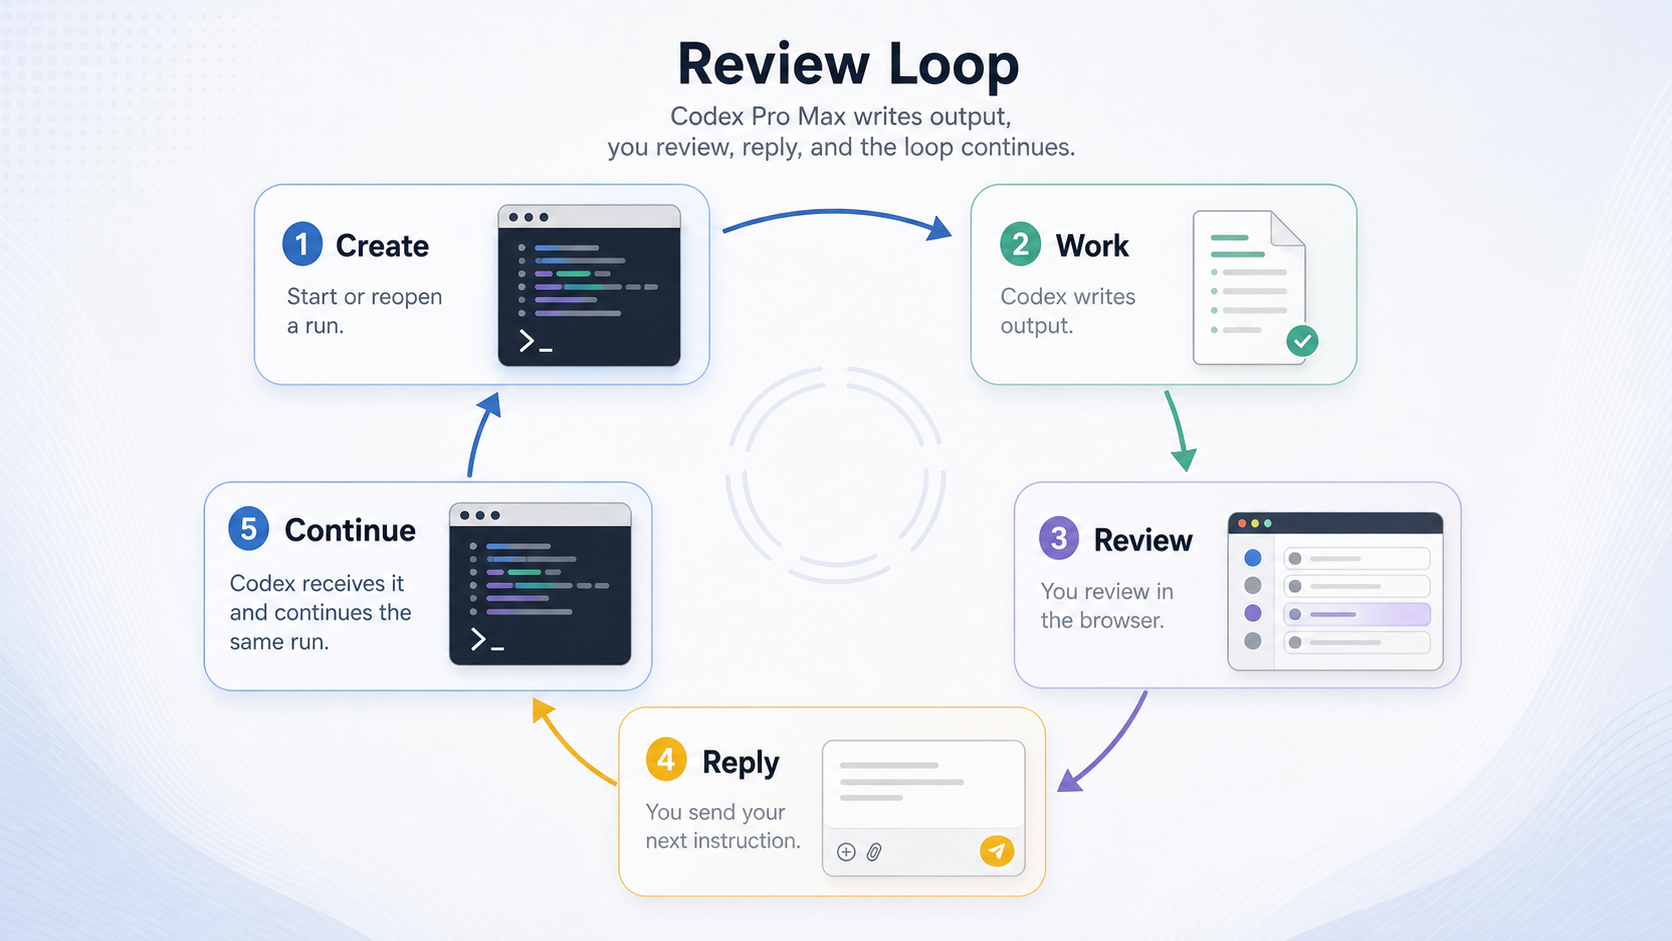
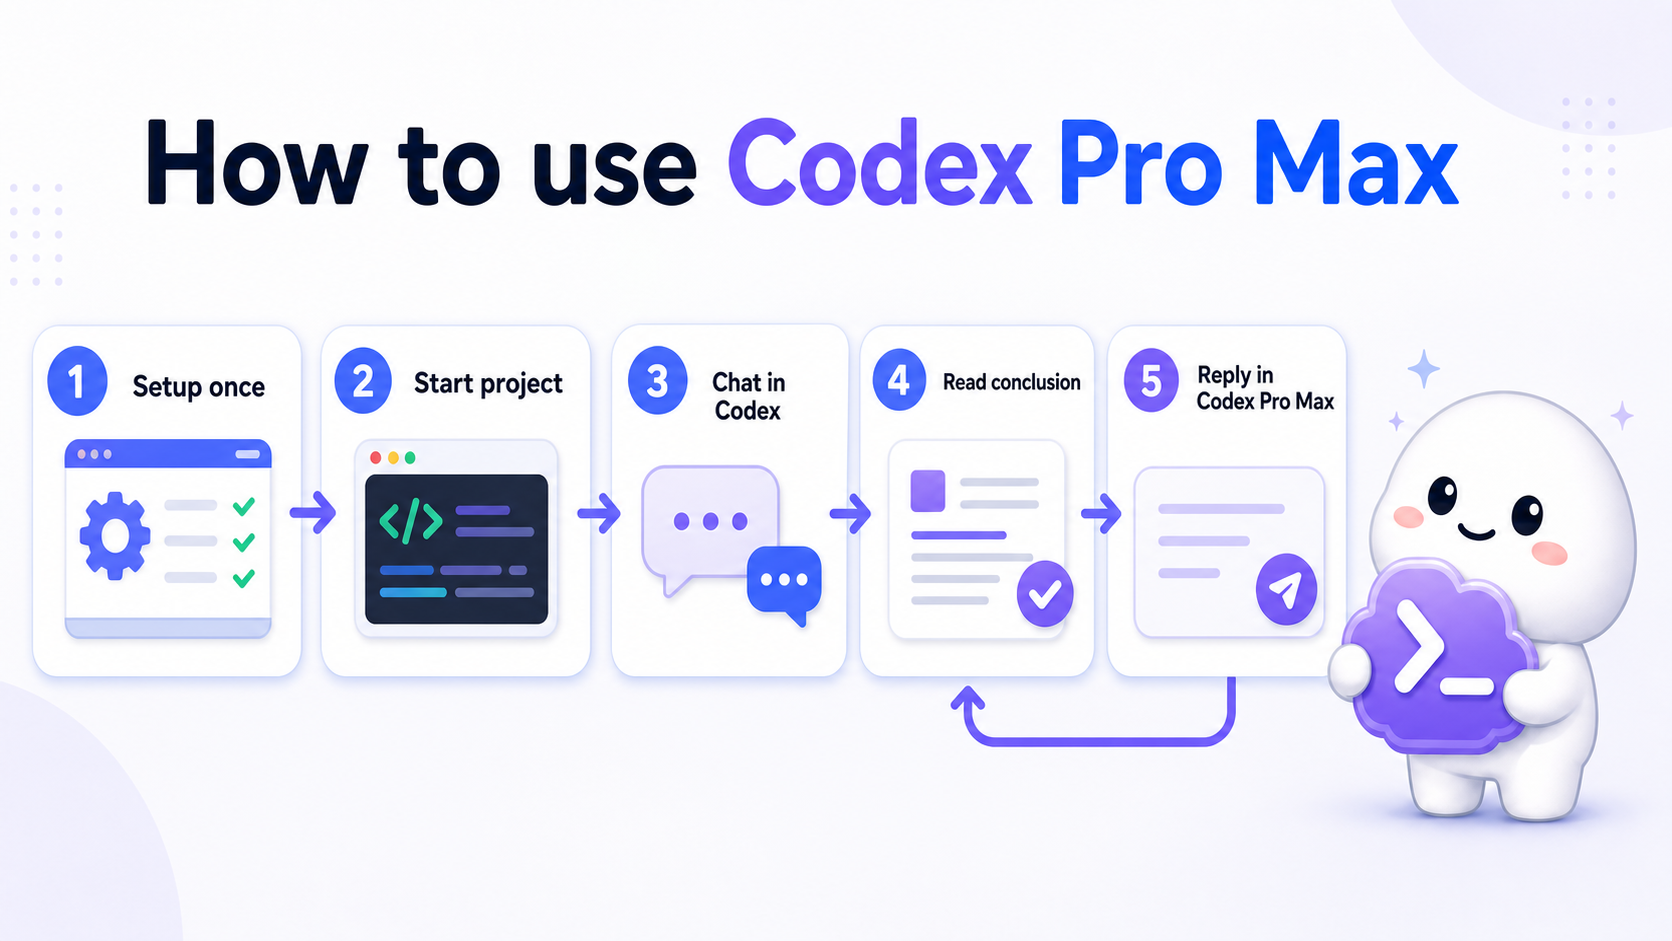
Clarify README setup workflow

diff --git a/README.md b/README.md
@@ -4,72 +4,63 @@
   <img src="./assets/readme/banner.png" alt="Codex Pro Max banner" width="980" />
 </p>
 
-<p align="center">
-  <img src="https://img.shields.io/badge/license-MIT-green" alt="MIT license" />
-  <img src="https://img.shields.io/badge/React-19-61dafb" alt="React 19" />
-  <img src="https://img.shields.io/badge/TypeScript-5.9-3178c6" alt="TypeScript 5.9" />
-  <img src="https://img.shields.io/badge/Vite-7.3-646cff" alt="Vite 7.3" />
-  <img src="https://img.shields.io/badge/local--first-file%20protocol-0f766e" alt="Local first file protocol" />
-  <img src="https://img.shields.io/badge/platform-Windows-0078d4" alt="Windows" />
-</p>
+Codex Pro Max helps you keep working with Codex without interrupting the same conversation.
 
-Codex Pro Max is a local browser inbox for Codex runs.
+I built this so Codex can do the work, send its conclusion to Codex Pro Max, wait there for your next prompt, and then continue from the same Codex chat. You do not need to steer the original Codex thread with another message just to keep it moving, and you do not need to start a new conversation.
 
-I built this so I can chat with Codex directly from Codex Pro Max without interrupting the same conversation. Codex can do the work, send the answer to the browser, wait there for my next instruction, and then continue the same run again.
-
-That makes the workflow simple: review the answer, type the next instruction, and keep going. Have fun.
+The workflow is simple: ask Codex to work, review the conclusion in Codex Pro Max, reply there, and let Codex continue from where it stopped.
 
 <p align="center">
-  <img src="https://media.tenor.com/l6oja987EwIAAAAi/tkthao219-quby.gif" alt="Have fun sticker" width="120" />
+  <img src="./public/codex-stopped.webp" alt="Codex waiting for the next instruction" width="320" />
 </p>
 
-## What It Does
+## What It Helps With
+
+Codex Pro Max helps when you want Codex to keep working step by step without losing the same conversation.
+
+- Read Codex's latest conclusion in a browser.
+- Send the next prompt from Codex Pro Max.
+- Keep the same Codex session going after every reply.
+- Type ahead while Codex is busy.
+- Keep run files locally in the `runs/` folder.
 
 <p align="center">
   <img src="./assets/readme/why-it-exists.png" alt="Why Codex Pro Max exists" width="900" />
 </p>
 
-Codex Pro Max gives you:
-
-- A browser inbox for Codex runs.
-- One selected run view with the latest answer.
-- A composer for sending the next instruction.
-- A queue so you can keep writing while Codex is busy.
-- Attachments and previews for run context.
-- Protocol file previews for debugging.
-- Live local updates through Server-Sent Events.
-- A file-backed protocol, so there is no database to set up.
-
-Use it when you want Codex to pause after a task, show you the result in a separate UI, and then resume the same conversation after you reply.
-
-## Tags
-
-`codex` `human-in-the-loop` `review-inbox` `local-first` `file-protocol` `server-sent-events` `react` `vite` `typescript` `express` `windows` `automation`
-
-## Quick Start
-
-<p align="center">
-  <img src="./assets/readme/quick-start.png" alt="Codex Pro Max quick start" width="900" />
-</p>
-
-### Requirements
+## Requirements
 
 - Windows.
+- Codex installed.
 - Node.js 20 or newer. Node.js 24 is recommended.
 - npm.
 - PowerShell.
 
-### Install The Codex Skill
+## How To Install
 
-From the project folder, run:
+### 1. Run Setup
+
+From the project folder, double-click `setup.cmd` or run:
 
 ```bat
 .\setup.cmd
 ```
 
-The setup script copies the Codex Pro Max skill into your Codex home folder and updates Codex configuration so Codex can use the review scripts.
+`setup.cmd` installs three things for Codex:
 
-### Start The App
+| Installed item | Where it goes | Why it matters |
+| --- | --- | --- |
+| Codex Pro Max skill | `%USERPROFILE%\.codex\skills\codex-pro-max` | Gives Codex the scripts it needs to create sessions, submit conclusions, and wait for your next prompt. |
+| System instruction file | `%USERPROFILE%\.codex\AGENTS.md` | Tells Codex when and how to use Codex Pro Max. |
+| Codex config entry | `%USERPROFILE%\.codex\config.toml` | Enables the installed skill for Codex. |
+
+If Codex was already open, restart it after running setup so it can load the new skill and instructions.
+
+<p align="center">
+  <img src="./assets/readme/setup-cmd-success.png" alt="setup.cmd completed successfully" width="900" />
+</p>
+
+### 2. Start Codex Pro Max
 
 Run:
 
@@ -77,47 +68,85 @@ Run:
 .\start-project.cmd
 ```
 
-Then open:
+This command checks dependencies, installs missing packages if needed, and starts the local project.
+
+When it is running, open:
 
 ```text
 http://127.0.0.1:5173
 ```
 
-The local API runs on:
+Codex Pro Max also uses this helper address in the background:
 
 ```text
 http://127.0.0.1:53127
 ```
 
-## Demo Media
+Keep the command window open while you use Codex Pro Max. Closing it stops the project.
 
-<!-- Add the project screenshot and workflow GIF here later. -->
+<p align="center">
+  <img src="./assets/readme/start-project-running.png" alt="start-project.cmd running Codex Pro Max" width="900" />
+</p>
 
-## Daily Workflow
+<p align="center">
+  <img src="./public/codex-thinking.webp" alt="Codex working on a request" width="320" />
+</p>
+
+## How To Use
+
+### 1. Open Codex And Chat
+
+Open Codex and start a normal chat.
+
+Because `setup.cmd` installed the skill, `AGENTS.md`, and Codex config, Codex knows what to do:
+
+1. Start a new Codex Pro Max session.
+2. Do your requested work.
+3. Write the conclusion into Codex Pro Max.
+4. Wait for your next prompt.
+
+You do not need to manually create a run folder or run the PowerShell scripts yourself. Codex uses the installed skill and instructions.
+
+### 2. Continue From Codex Pro Max
+
+After Codex finishes a task, Codex Pro Max shows the conclusion in the browser.
+
+Type your next prompt in Codex Pro Max. Once Codex receives it, it continues the same Codex session, works until the next conclusion, writes that conclusion back into Codex Pro Max, and waits again.
+
+That is the main loop:
+
+```text
+Codex chat -> Codex does work -> conclusion appears in Codex Pro Max
+Codex Pro Max prompt -> Codex continues -> next conclusion appears
+```
 
 <p align="center">
   <img src="./assets/readme/review-loop.png" alt="Codex Pro Max review loop" width="900" />
 </p>
 
-The normal loop is:
+## Daily Workflow
 
-1. Codex calls `create_session.ps1` to create or reopen a run.
-2. Codex does the requested work.
-3. Codex calls `request_review.ps1` with its answer.
-4. Codex Pro Max shows that answer in the browser.
-5. You send the next instruction from the UI.
-6. `wait_for_review.ps1` returns the instruction to Codex.
-7. Codex continues the same conversation.
+1. Run `start-project.cmd`.
+2. Open `http://127.0.0.1:5173`.
+3. Open Codex.
+4. Send your first prompt in Codex.
+5. Read the conclusion in Codex Pro Max.
+6. Send follow-up prompts from Codex Pro Max.
+7. Close the `start-project.cmd` window when you are done.
 
-The important rule is that Codex keeps waiting with the same `runDir` until an instruction exists.
+<p align="center"><strong>[daily-workflow.png]</strong></p>
 
-## Instruction Queue
+## What You Should See
 
-<p align="center">
-  <img src="./assets/readme/instruction-queue.png" alt="Codex Pro Max instruction queue" width="900" />
-</p>
+When everything is working:
 
-You can type ahead while Codex is busy. Queued instructions are stored in the browser by run id. When the selected run reaches `WAITING_FOR_REVIEW`, the next queued instruction can be sent without losing your draft.
+- Codex Pro Max shows a run in the left sidebar.
+- The selected run shows Codex's latest conclusion.
+- The run status changes to `WAITING_FOR_REVIEW` when Codex is waiting for you.
+- The prompt box lets you send the next instruction.
+- Codex continues after receiving that instruction.
+
+<p align="center"><strong>[waiting-for-review-screen.png]</strong></p>
 
 ## Project Layout
 
@@ -126,17 +155,20 @@ CodexProMax/
   src/                         React + Vite browser UI
   server/                      Express API and file protocol logic
   setup/skills/codex-pro-max/  Installable Codex skill
-  public/                      Static app images
-  assets/readme/               README raster figures
+  public/                      Static app files
+  assets/readme/               README images and GIFs
   runs/                        Local runtime state, ignored by git
+  AGENTS.md                    System instructions installed by setup.cmd
+  setup.cmd                    Installs the Codex skill and config
+  start-project.cmd            Starts Codex Pro Max
 ```
 
-## Scripts
+## Commands
 
 | Command | Purpose |
 | --- | --- |
-| `.\setup.cmd` | Installs the Codex Pro Max Codex skill into your Codex home folder. |
-| `.\start-project.cmd` | Installs missing dependencies if needed, then starts the dev app. |
+| `.\setup.cmd` | Installs the Codex Pro Max skill, `AGENTS.md`, and Codex config entry. |
+| `.\start-project.cmd` | Installs missing dependencies if needed, then starts the app. |
 | `npm run dev` | Starts the Express API and Vite UI together. |
 | `npm test` | Runs backend, frontend, and skill-script tests. |
 | `npm run build` | Type-checks the project and builds the production UI. |
@@ -147,7 +179,7 @@ CodexProMax/
 ### System Architecture
 
 <p align="center">
-  <img src="./assets/readme/system-paper-figure.png" alt="Codex Pro Max paper-style system architecture figure" width="980" />
+  <img src="./assets/readme/system-paper-figure.png" alt="Codex Pro Max system architecture" width="980" />
 </p>
 
 ```mermaid
@@ -242,19 +274,13 @@ stateDiagram-v2
 
 ## Codex Skill Contract
 
-The installed skill lives in:
-
-```text
-C:\Users\ramly\.codex\skills\codex-pro-max
-```
-
 Codex should use these scripts instead of creating run folders by hand:
 
 | Script | Purpose |
 | --- | --- |
 | `create_session.ps1` | Creates or reopens a run and returns `runDir`. |
 | `request_review.ps1` | Writes the latest answer and sets `WAITING_FOR_REVIEW`. |
-| `wait_for_review.ps1` | Waits until a human instruction exists, then returns it as JSON. |
+| `wait_for_review.ps1` | Waits until your next prompt exists, then returns it as JSON. |
 
 ## Validate Changes
 
@@ -270,11 +296,3 @@ npm run build
 Codex Pro Max is licensed under the MIT License. See [`LICENSE`](LICENSE).
 
 Use this project only in lawful, authorized, and responsible environments. Do not use it to abuse services, bypass access controls, violate platform terms, compromise systems, exfiltrate data, harass people, or automate activity you are not authorized to perform.
-
-<p align="center">
-  <img src="https://media.tenor.com/RsEw4m8_9m0AAAAi/rexx.gif" alt="Broke sticker" width="120" />
-</p>
-
-<p align="center">
-  Thank you for reading this boring README. If you'd like to chip in, just let me know!
-</p>